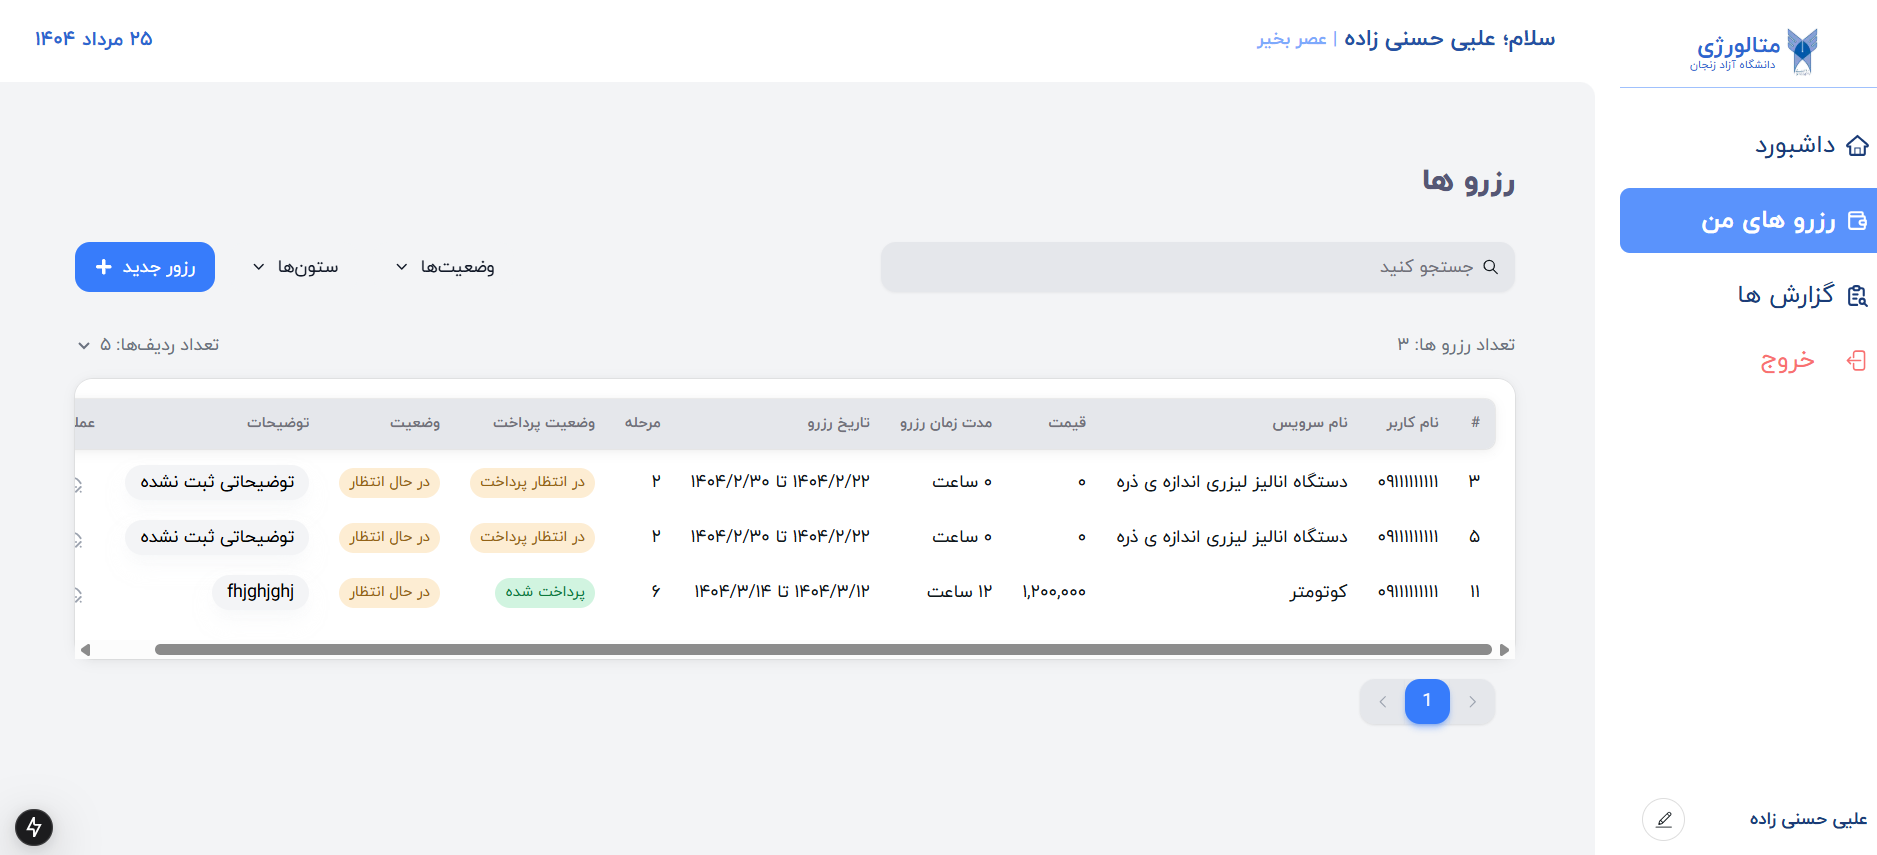
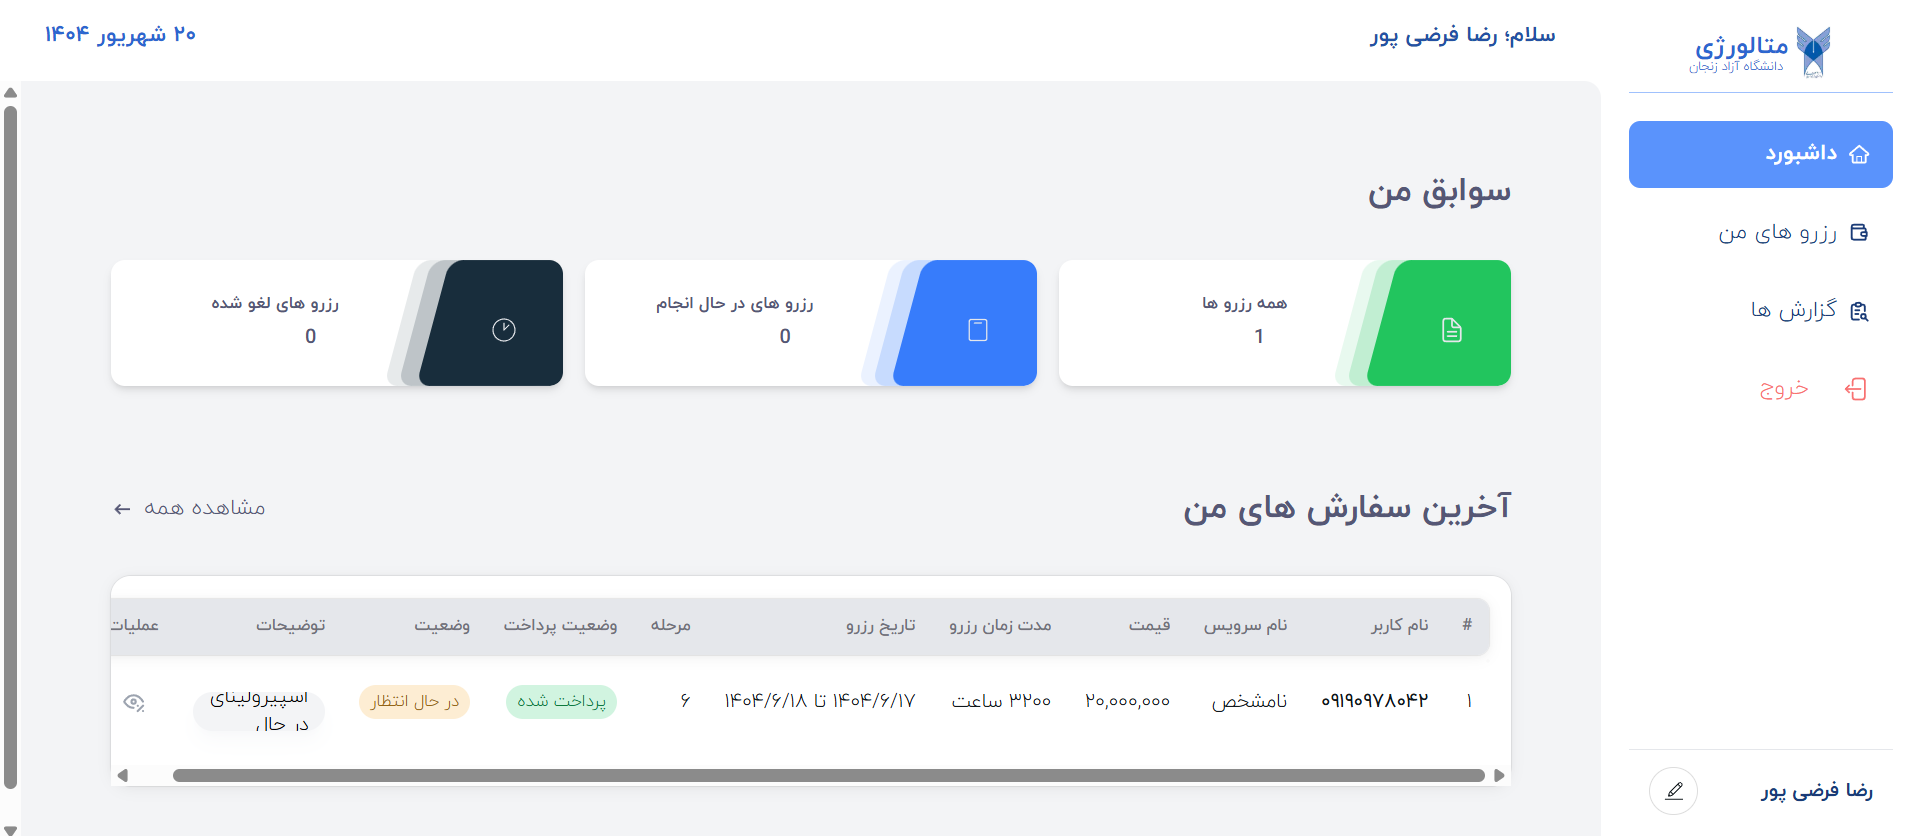
update readme

diff --git a/src/components/module/cardModule/CardModule.tsx b/src/components/module/cardModule/CardModule.tsx
@@ -29,6 +29,7 @@ type Props<T extends CardData> = {
   view?: boolean;
   styleForAdmin: boolean;
   bottomOffset: string;
+  useMaxWidth?: boolean;
 };
 
 const CardModule = <T extends CardData>({
@@ -40,12 +41,14 @@ const CardModule = <T extends CardData>({
   view = true,
   styleForAdmin,
   bottomOffset,
+  useMaxWidth,
 }: Props<T>) => {
   const [hoveredId, setHoveredId] = useState<number | string | null>(null);
   const router = useRouter();
   const cardStyles = {
     cardsBox: cn(
-      "w-full min-w-[350px] mb-32 mt-8 col-span-12 sm:col-span-5 relative overflow-visible group"
+      "w-full mb-32 mt-8 col-span-12 sm:col-span-5 relative overflow-visible group",
+      useMaxWidth ? "max-w-[350px]" : "min-w-[350px]"
     ),
     cardsList:
       "w-full max-w-[800px] min-h-[220px] md:max-h-[220px] flex flex-col md:flex-row ",
@@ -121,8 +124,6 @@ const CardModule = <T extends CardData>({
               view ? "min-h-[16rem]" : "min-h-[14rem]"
             )}
             onClick={() => {
-              console.log("MoreDetailsHref:", MoreDetailsHref);
-
               if (typeof window !== "undefined" && window.innerWidth < 768) {
                 router.push(MoreDetailsHref);
               }

diff --git a/src/components/module/cardModule/CardContent.tsx b/src/components/module/cardModule/CardContent.tsx
@@ -108,15 +108,15 @@ export const CardContent: React.FC<CardContentProps> = ({
 
       {parsedTags && parsedTags.length > 0 && (
         <InfoRow icon={<TiTags className="text-xl" />}>
-          {parsedTags.slice(0, 3).map((tag, index) => (
+          {parsedTags.slice(0, 2).map((tag, index) => (
             <span
               key={index}
-              className="bg-blue-100 text-secondary-800 text-xs font-medium px-2.5 py-0.5 rounded"
+              className="bg-blue-50 text-secondary-800 text-xs font-medium px-2.5 py-0.5 rounded-md"
             >
               {tag}
             </span>
           ))}
-          {parsedTags.length > 3 && (
+          {parsedTags.length > 2 && (
             <span className="text-xs font-medium py-0.5">...</span>
           )}
         </InfoRow>

diff --git a/src/components/template/blogs/CateogryList.tsx b/src/components/template/blogs/CateogryList.tsx
@@ -35,7 +35,7 @@ function CategoryList() {
                 href={`/blogs/category/${category.slug}`}
                 scroll={false}
                 className={cn(
-                  "block px-3 py-2 rounded-lg bg-default-50 hover:bg-secondary-400 hover:text-white transition cursor-pointer font-semibold text-default-400",
+                  "block px-3 py-2 rounded-lg bg-default-50 hover:bg-secondary-400 hover:text-white transition cursor-pointer font-semibold text-default-400 text-[12px] md:text-md whitespace-nowrap",
                   pathname === `/blogs/category/${category.slug}` &&
                     "bg-secondary-300 !font-bold text-white hover:text-white"
                 )}

diff --git a/src/components/template/blogs/blogsPage.tsx b/src/components/template/blogs/blogsPage.tsx
@@ -109,6 +109,7 @@ export default function BlogPage({
                   isMoreDetails="anyBlogs"
                   styleForAdmin={false}
                   view={true}
+                  useMaxWidth={true}
                 />
               </div>
             )}

diff --git a/README.md b/README.md
@@ -30,32 +30,63 @@
 5. 🕸 [Code to Copy](#snippets)
 6. 🔗 [Assets](#links)
 
-## <a >🖼 Images</a>
+## <a>🖼 Images</a>
 
 <div align="center">
   <table>
+    <!-- Row for first two images -->
     <tr>
-   <td><img src="./public/images/readme/landingabout.png" alt="Image 1" width="300"></td>
-   <td><img src="./public/images/readme/auth1.png"  alt="Image 2" width="300"></td>
+      <td><img src="./public/images/readme/landingabout.png" alt="Image 1" width="300"></td>
+      <td><img src="./public/images/readme/1.png" alt="Image 2" width="300"></td>
     </tr>
+    <!-- Row for third image centered -->
     <tr>
-      <td><img src="./public/images/readme/labcustomer2.png" alt="Image 3" width="300"></td>
-     <td><img src="./public/images/readme/admindashboardnew.png" alt="Image 4" width="300"></td>
+      <td colspan="2" align="center"><img src="./public/images/readme/2.png" alt="Image 3" width="300"></td>
     </tr>
   </table>
 </div>
 
-## <a >🖼 Service & Blogs & Courses</a>
+## <a>🖼 Auth</a>
 
 <div align="center">
   <table>
+    <!-- Row for first two images -->
     <tr>
-   <td><img src="./public/images/readme/blogs.png" alt="Image 1" width="300"></td>
-   <td><img src="./public/images/readme/coursesection.png"  alt="Image 2" width="300"></td>
+      <td><img src="./public/images/readme/auth1.png" alt="Image 1" width="300"></td>
+      <td><img src="./public/images/readme/auth2.png" alt="Image 2" width="300"></td>
     </tr>
+    <!-- Row for third image centered -->
+    <tr>
+      <td colspan="2" align="center"><img src="./public/images/readme/auth3.png" alt="Image 3" width="300"></td>
+    </tr>
+  </table>
+</div>
+
+## <a>🖼 Service & Blogs & Courses</a>
+
+<div align="center">
+  <table>
+    <!-- Row for first two images -->
+    <tr>
+      <td><img src="./public/images/readme/blogs.png" alt="Image 1" width="300"></td>
+      <td><img src="./public/images/readme/coursesection.png" alt="Image 2" width="300"></td>
+    </tr>
+    <!-- Row for next two images -->
     <tr>
       <td><img src="./public/images/readme/servicessection.png" alt="Image 3" width="300"></td>
-     <td><img src="./public/images/readme/servicedetails.png" alt="Image 4" width="300"></td>
+      <td><img src="./public/images/readme/servicedetails.png" alt="Image 4" width="300"></td>
+    </tr>
+  </table>
+</div>
+
+## <a>🖼 Panel</a>
+
+<div align="center">
+  <table>
+    <!-- Row for two images -->
+    <tr>
+      <td><img src="./public/images/readme/admindashboardnew.png" alt="Image 1" width="300"></td>
+      <td><img src="./public/images/readme/labcustomer2.png" alt="Image 2" width="300"></td>
     </tr>
   </table>
 </div>
